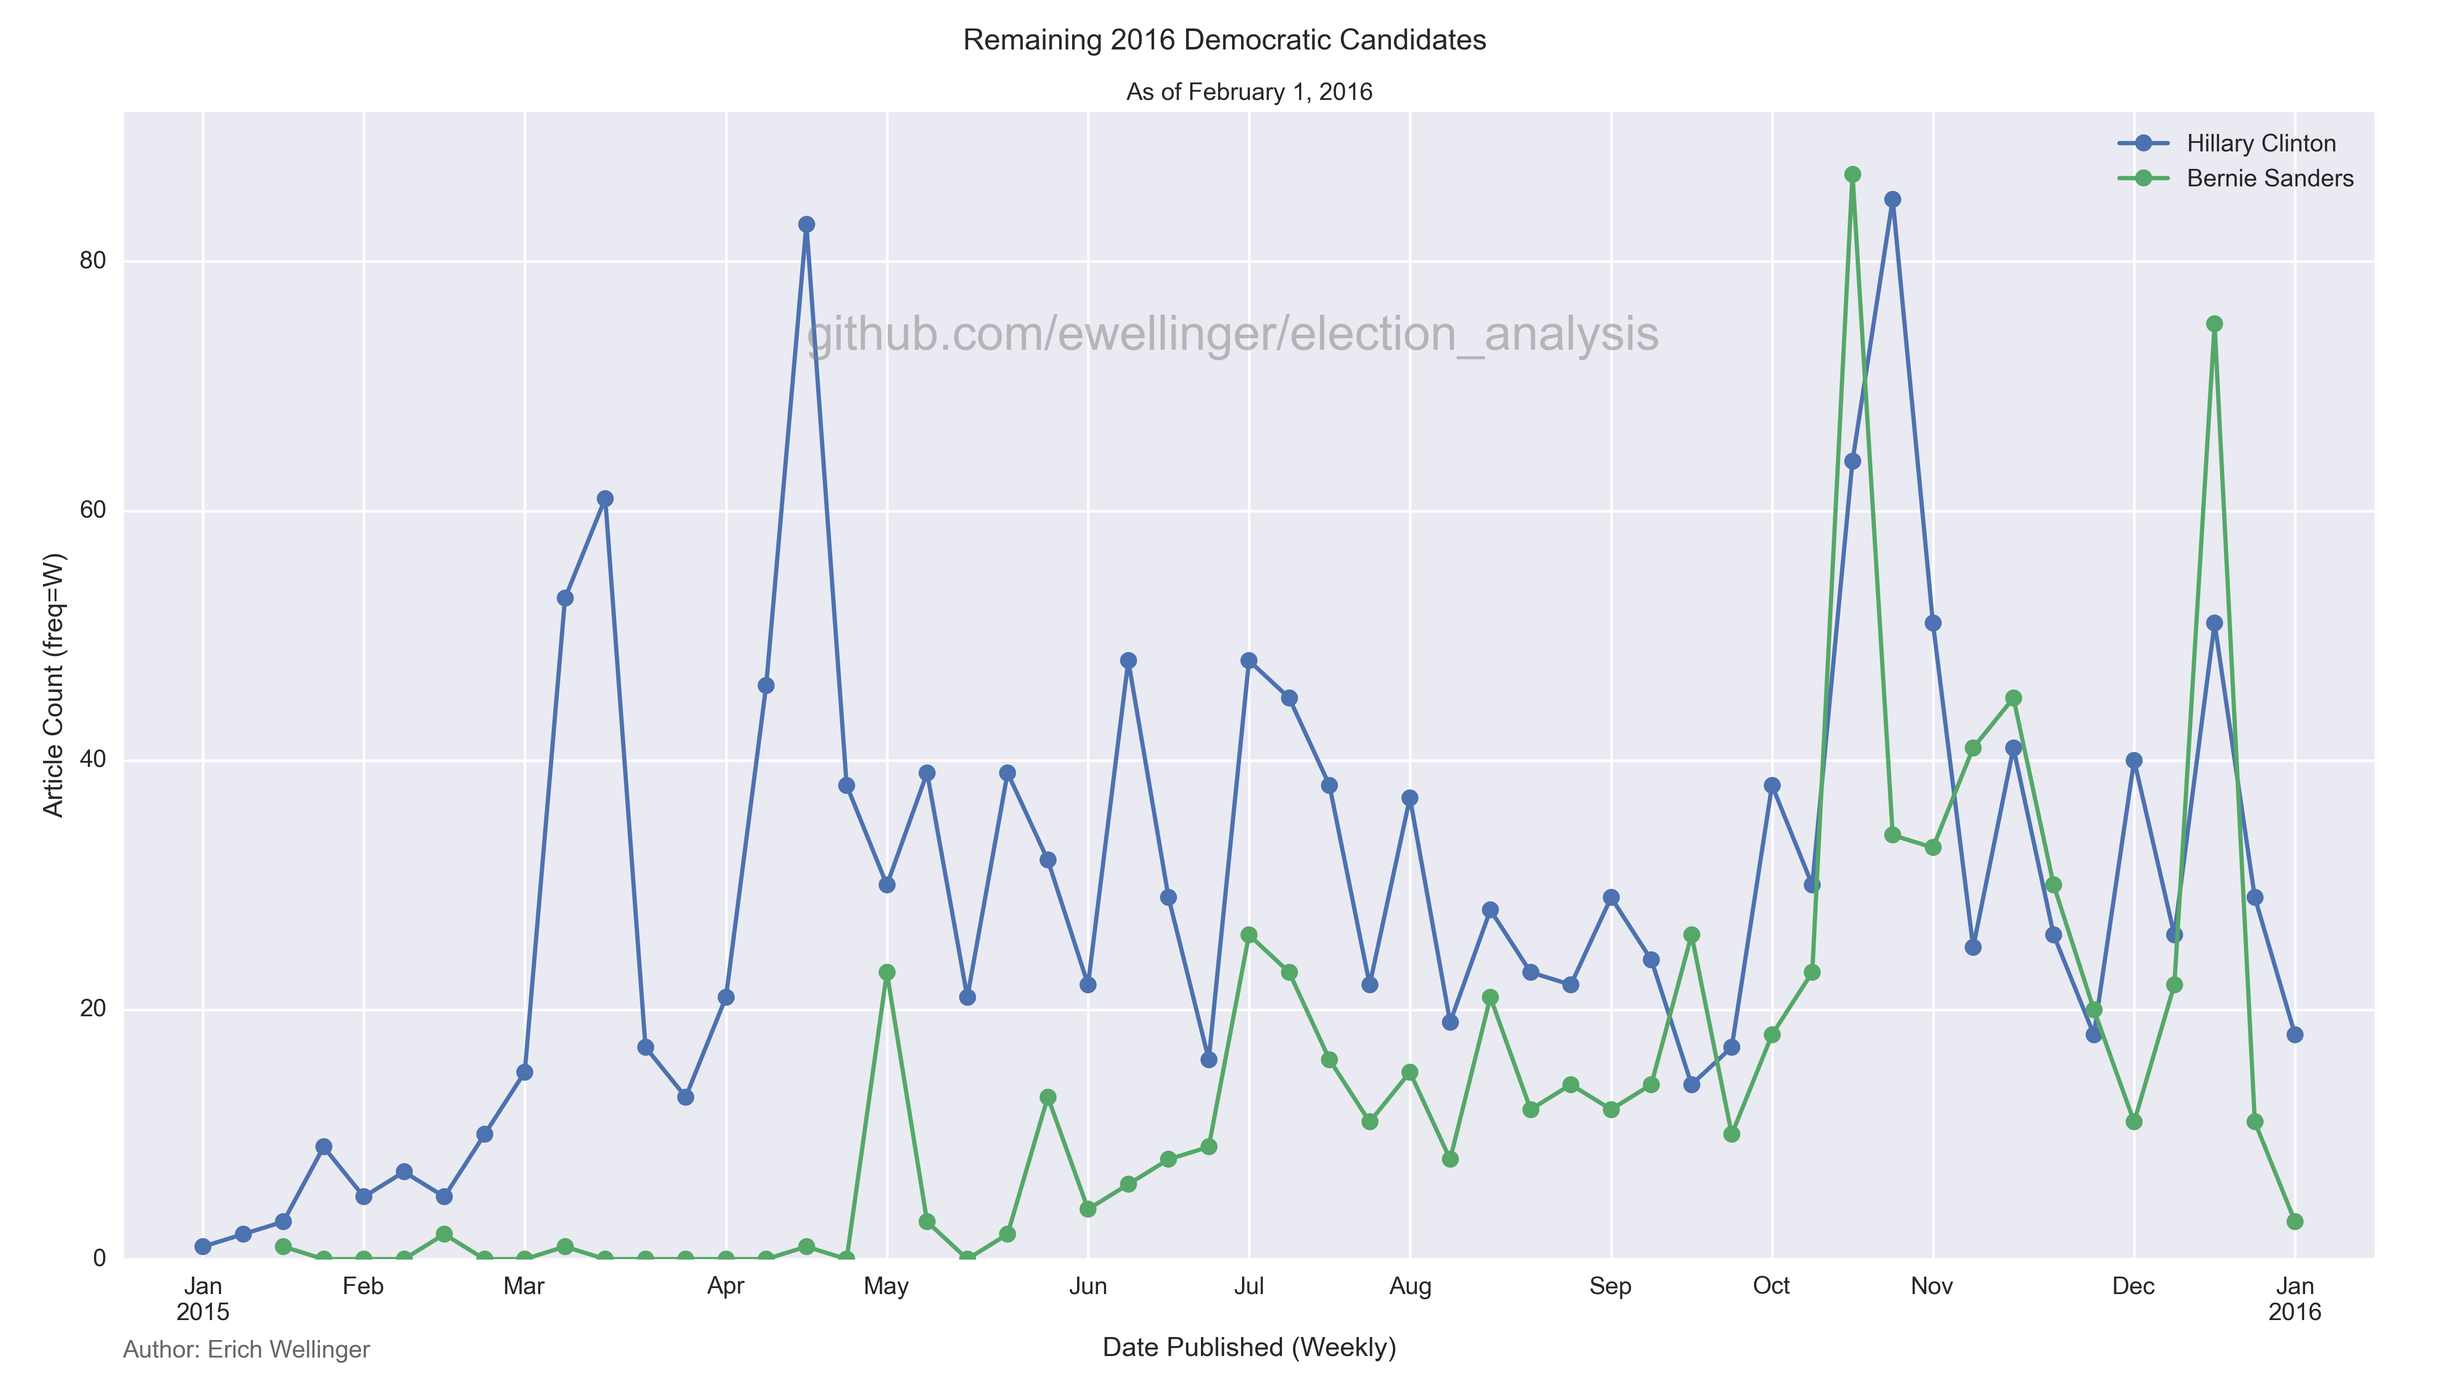
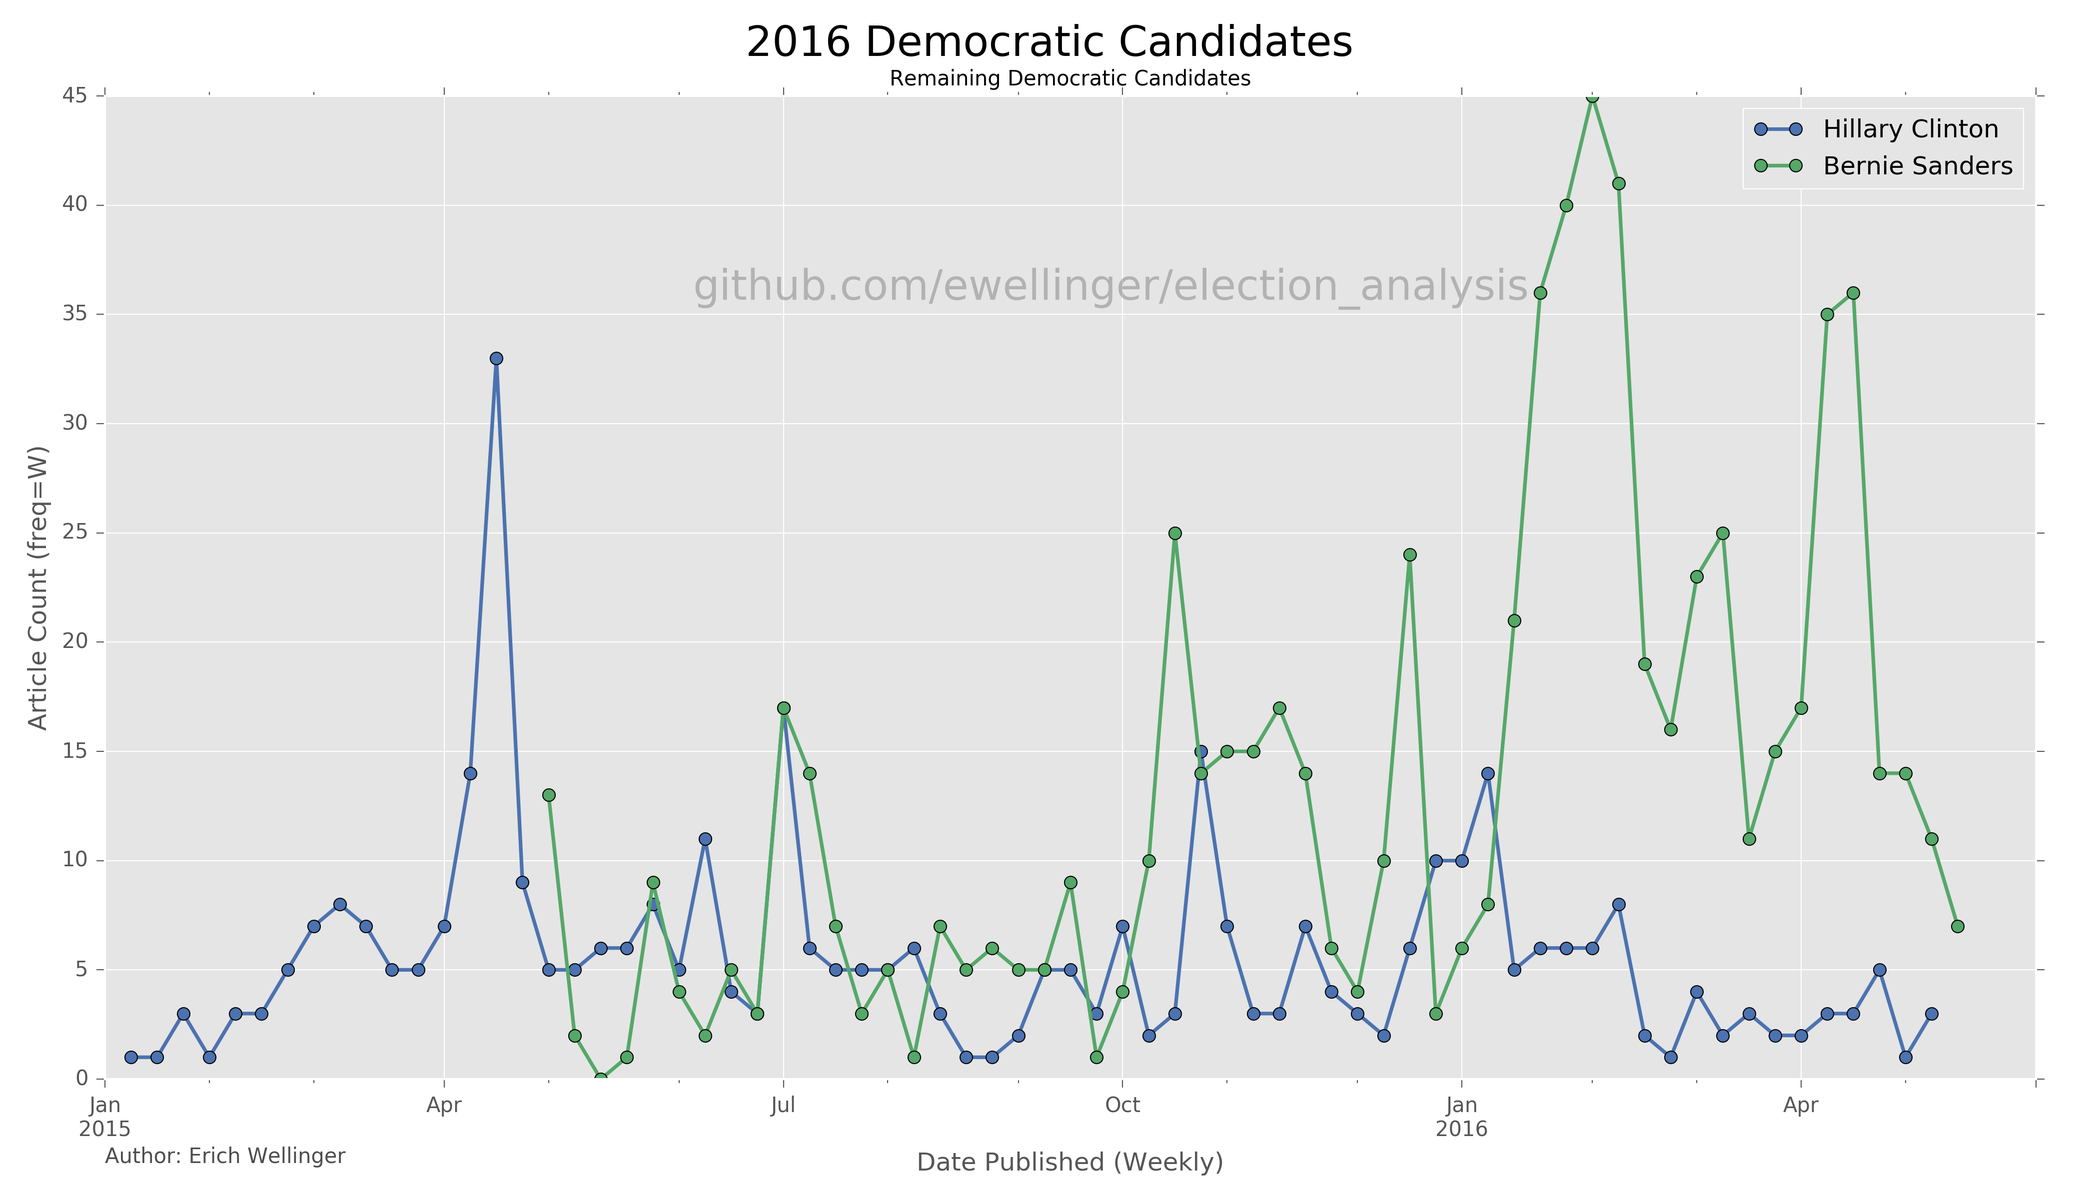
Working on significant overhaul of README and incorporating new plots

diff --git a/Election_Plots.py b/Election_Plots.py
@@ -2,13 +2,20 @@ import pandas as pd
 import numpy as np
 from datetime import date
 import matplotlib.pyplot as plt
+import matplotlib
+from cycler import cycler
 from PIL import Image
 from wordcloud import WordCloud, ImageColorGenerator
 from scipy.misc import imread
 import cPickle as pickle
 from NMF_Clustering import NMFClustering
 from scrapers.load_data import get_topic_labels, get_candidate_info
+
+# Set style options
 plt.style.use('ggplot')
+color_cycle = cycler(color=['#4c72b0', '#55a868', '#c44e52', '#8172b2', '#ccb974', '#64b5cd'])
+matplotlib.rcParams['axes.prop_cycle'] = color_cycle
+matplotlib.rcParams['lines.linewidth'] = 1.75
 
 
 class ElectionPlotting(object):
@@ -47,11 +54,13 @@ class ElectionPlotting(object):
             source: bool (default False)
             freq: 'D', 'W', or 'M' (default 'W')
             normalize: bool (default False)
-            marker
-            year
-            fig
-            title
-            legend_label
+            marker: str (default 'o')
+            year: bool (default False)
+                Indicates whether to set xlims to encompass the entirety of the year
+            fig: Matplotlib figure object or tuple (default None)
+                If figure object, plot will be added to the existing figure.  If tuple, figure will be created using specified size.  If None, figure will be created using self.figsize.
+            title: str (default None)
+            legend_label: bool (default None)
         '''
         if isinstance(fig, tuple):
             fig = self._create_fig(fig)
@@ -116,6 +125,8 @@ class ElectionPlotting(object):
 
 
     def _create_fig(self, figsize=None, watermark=True):
+        ''' Helper function to create a figure and optionally add watermark
+        '''
         if figsize == None:
             figsize = self.figsize
 
@@ -127,13 +138,13 @@ class ElectionPlotting(object):
         return fig
 
 
-    def candidate_plots(self, candidate_topic_idxs, title, byline=None, freq='W', fig=None):
+    def candidate_plots(self, candidate_names, title, byline=None, freq='W', fig=None):
         ''' candidate_plots plots multiple topics on one plot
-        candidate_topic_idxs: list of int
-            Should be a list of int specifying which topic_num to plot
+        candidate_topic_idxs: list of str
+            Should be a list of strings identifying which candidates to plot
         title: str
             Title for the plot
-        byline: str
+        byline: str (default None)
             Byline to go beneath the title
         '''
         if isinstance(fig, tuple):
@@ -141,7 +152,11 @@ class ElectionPlotting(object):
         elif not fig:
             fig = self._create_fig()
 
-        for candidate in candidate_topic_idxs:
+        candidate_topic_idxs = [self.candidate_info[name][0] for name in candidate_names]
+
+        c_list = zip(*self.nmf.outlets)[2]
+
+        for idx, candidate in enumerate(candidate_topic_idxs):
             self.article_count_by_time(topic_num=candidate, freq=freq, legend_label=True, fig=fig, year=None)
 
         # Make sure the xlims have a buffer on either side of earliest and latest values
@@ -153,21 +168,23 @@ class ElectionPlotting(object):
 
         plt.legend(loc='best')
         plt.subplots_adjust(left=0.05, bottom=0.1, right=0.97)
-        plt.suptitle(title)
+        plt.suptitle(title, fontsize=20)
         if byline:
             plt.title(byline, fontsize=10)
+        else:
+            plt.title('')
 
 
     def topic_word_cloud(self, topic_num, max_words=200, figsize=None, width=2400, height=1300, ax=None, mask_fname=None, inherit_color=False):
         ''' Create word cloud for a given topic
         INPUT:
             topic_idx: int
-            max_words: int
+            max_words: int (default 200)
                 Max number of words to encorporate into the word cloud
             figsize: tuple (int, int)
                 Size of the figure if an axis isn't passed
-            width: int
-            height: int
+            width: int (default 2400)
+            height: int (default 1300)
             ax: None or matplotlib axis object
             mask_fname: None or str
                 None if no mask is desired, otherwise a string providing the path the image being used as the mask
@@ -205,6 +222,8 @@ class ElectionPlotting(object):
         ''' Make a bar chart relecting the normalized reporting by source
         INPUT:
             topic_num: int
+            ax: Matplotlib axis object (default None)
+                If no axis object is provided, one will be created with size (2.5, 5)
         '''
         num_articles = self.nmf.labels[:, topic_num].sum()
         df = self.df.loc[self.nmf.labels[:, topic_num]]
@@ -291,19 +310,29 @@ if __name__=='__main__':
 
     ep = ElectionPlotting(df, nmf)
 
-    # Plot a general plot of all the articles over time
+    ''' Plot a general plot of all the articles over time '''
     # ep.article_count_by_time()
     # plt.show()
 
-    # Plot all the articles split up by source over time
+    ''' Plot all the articles split up by source over time '''
     # ep.article_count_by_time(source=True)
     # plt.show()
 
-    # Create an overall visualization of an entire topic
+    ''' Create an overall visualization of an entire topic '''
     # ep.topic_time_and_cloud(9)
     # plt.show()
 
-    # Make plot for each candidate and save the image
+    ''' Make plot for each candidate and save the image '''
     # for candidate in ep.candidate_info.keys():
     #     ep.single_candidate_plot(candidate)
     #     plt.savefig('candidate_plots/{}.png'.format(candidate), dpi=300)
+    #     plt.close()
+
+    ''' Create candidate plots '''
+    # ep.candidate_plots(['trump', 'cruz', 'kasich'], '2016 Republican Candidates', byline='Last Three Candidates in Republican Race')
+    # plt.savefig('candidate_plots/republican.png', dpi=300)
+    # plt.close()
+    #
+    # ep.candidate_plots(['clinton', 'sanders'], '2016 Democratic Candidates', byline='Remaining Democratic Candidates')
+    # plt.savefig('candidate_plots/democrat.png', dpi=300)
+    # plt.close()

diff --git a/README.md b/README.md
@@ -16,7 +16,7 @@ Below is an example of one of the latent topics extracted with the [NMF][wiki-nm
 
 [wiki-nmf]: https://en.wikipedia.org/wiki/Non-negative_matrix_factorization
 
-![gun_control](./plots/Gun_Control.png "Sample Time Series Graph With WordCloud")
+![gun_control](./plots/topic_plots/gun_control.png "Sample Time Series Graph With WordCloud")
 
 ---
 
@@ -40,8 +40,11 @@ keywords = ['jeb bush', 'carson', 'christie', 'cruz', 'fiorina', 'jim gilmore',
             'sanders', 'jim webb', 'chafee', 'lessig', 'biden']
 ```
 
-All articles that were returned were assumed to be at least cursorily related to the general election (further checks are done to ensure this during the [data cleaning](#data-cleaning) phase) 
-Articles pertaining to the general election were then added to a Mongo Database with metadata and article text for further analysis.  In the case of the Fox News and Wall Street Journal scrapers, relevant url addresses were first saved to a text file prior to extracting metadata and article text.
+All articles that were returned were assumed to be at least cursorily related to the general election (further checks are done to ensure this during the [data cleaning](#data-cleaning) phase) and were then added to a Mongo Database with metadata and article text for further analysis.  In the case of the Fox News and Wall Street Journal scrapers, relevant url addresses were first saved to a text file prior to extracting metadata and article text.
+
+All scripts associated with collecting the data are located in the [scrapers](./scrapers) folder.
+
+Now let's take a look at the plethora of candidates we had to choose from when the race was first getting started!
 
 ---
 
@@ -83,22 +86,29 @@ Joe Biden       |        N/A        |   10/21/2015
 
 Below we can see how the media coverage of topics associated with particular candidates compare over the course of the election season.  For brevity, only a select few candidates will be shown for each plot.
 
-![republican_candidates](./candidate_plots/republican.png "Coverage of Top 5 Polling Republican Candidates As Of February 1st, 2016")
+![democratic_candidates](./candidate_plots/democrat.png "Coverage of the Remaining Two Candidates")
 
+**NOTE**: It may appear that Hillary Clinton has a relatively few number of articles associated with her topic, but that actually isn't the case.  Due to the media storm around certain aspects of Clinton's candidacy, the NMF algorithm factored the general "Hillary Clinton" topic into multiple topics associated with different aspects of her bid for the Presidency.  For example, topics exist related to her use of a private email server (Topics 3, 4, 198), the Clinton Foundation (Topic 51), and the investigation surrounding the Benghazi attack (Topics 30, 98, 222).  We will see later what it means for a more general subject, such as the Benghazi attack, to be factored into multiple topics.
 
-![democratic_candidates](./candidate_plots/democrat.png "Coverage of Remaining Democratic Candidates As Of February 1st, 2016")
+![republican_candidates](./candidate_plots/republican.png "Coverage of the Final Three Republican Candidates")
 
-We can then take a look at each candidate's topic in turn and overlay the dates in which they announced and, if applicable, withdrew their candidacy.  A word cloud indicating the most prominent words for that topic and a breakdown of how prevalently particular news sources were reporting on it are also provided.  For a breakdown of each candidate please refer to the [candidate_plots](./candidate_plots) folder.
+We can then take a look at each candidate's topic in turn and overlay the dates in which they announced and, if applicable, withdrew their candidacy.  A word cloud indicating the most prominent words for that topic and a breakdown of how prevalently particular news sources were reporting on it are also provided (this bar chart is normalized by how many articles that that outlet has in the corpus to account for the sheer volume of articles published).  For a breakdown of each candidate, please refer to the [candidate_plots](./candidate_plots) folder.
 
-**** Imbed some candidate plots here
+![](./candidate_plots/trump.png "Donald Trump Topic")
 
-**NOTE**: It may appear that Hillary Clinton has a relatively few number of articles associated with her topic, but that actually isn't the case.  Due to the media storm around certain aspects of Clinton's candidacy, the NMF algorithm factored the general "Hillary Clinton" topic into multiple topics associated with different aspects of her bid for the Presidency.  For example, topics exist related to her use of a private email server (Topics 3, 4, 198), the Clinton Foundation (Topic 51), and the committee to investigate the Benghazi attack (Topics 30, 98, 222).  We will see later what it means for a more general subject, such as the Benghazi attack, to be factored into multiple topics.
+![](./candidate_plots/carson.png "Ben Carson Topic")
+
+![](./candidate_plots/sanders.png "Bernie Sanders Topic")
+
+![](./candidate_plots/fiorina.png "Carly Fiorina Topic")
+
+![](./candidate_plots/kasich.png "John Kasich Topic")
 
 ---
 
 ### Data Cleaning
 
-Several data cleaning steps were taken in the `clean_data.py` script to read in the data from the Mongo Database and produce the final `pandas` dataframe which the analysis was conducted on.  The resulting dataframe was pickled for easy access in subsequent scripts.
+Several data cleaning steps were taken in the [`clean_data.py`](./clean_data.py) script to read in the data from the Mongo Database and produce the final `pandas` dataframe which the analysis was conducted on.  The resulting dataframe was pickled for easy access in subsequent scripts.
 
 Cleaning Steps Included:
 * Convert `date_published` to the proper datetime format
@@ -106,19 +116,35 @@ Cleaning Steps Included:
 * Parse unicode characters from article text
 * Filter out any articles whose article text doesn't contain at least one candidate name
 * Text Processing / Lemmatization (See Below)
-* Add sentiment data to dataframe using `pattern.en` [sentiment][pattern-sentiment] function
 
-A article was then assumed to being pertained to the general election if the body of the article contained one or more of the candidate(s) full names (e.g. A search for `sanders` may yield an article about Deion Sanders rather than Bernie Sanders, which should not be included).
+One vitally important step was to double check that an article contained in our Mongo Database did, in fact, pertain in some way to the general election.  This was done by ensuring the body of an article contained one or more of the candidate(s) full names (e.g. A search for `sanders` may yield an article about Deion Sanders rather than Bernie Sanders, which should not be included).
 
-[pattern-sentiment]: http://www.clips.ua.ac.be/pages/pattern-en#sentiment
+It's also important to note that these articles might not necessarily be solely about the upcoming election.  For example, an article may be written about the water crisis in Flint Michigan and a candidate weighs in with their opinion.  While this isn't directly related to the election, it does factor into the political discourse and should therefore be included.  Indeed, topic number 83 is concerning the [Flint Water Crisis](./plots/topic_plots/flint_water_crisis.png).
 
 ---
 
 ### Text Processing
 
+While cleaning your data is an important step in any data science project, there are specific steps that are required when working with text data in order to perform analysis on your results.  Among these text oriented steps include removing stop words, stemming/lemmatizing your text, looking at n-grams, part-of-speech tagging, and creating some sort of numeric representation of the words (e.g. Term Frequency or a TfIdf matrix).  Not all of these steps are necessarily required (in fact several of these options are not implemented in my project) but a quick run down of each is in order.
+
 #### Stop Words
+The first step is to remove [stop words](https://en.wikipedia.org/wiki/Stop_words) from our corpus.  Stop words are words that frequently occur in text which make the language grammatically correct but don't actually lend any meaning to what a particular sentence is conveying.  Because of how common they are in the language and how little meaning they convey, we generally want to drop them entirely from our text corpus.  The following are a handful of examples of stop words that could be removed...
+
+```python
+['i', 'me', 'my', 'myself', 'we', 'our', 'ours', 'ourselves', 'you', 'your', 'yours', 'yourself', 'yourselves', 'he', 'him', ...]
+```
+
+This is far from a complete list nor is there a canonical list of what words should be dropped.  Furthermore, there are different sets of stop words for a given language.  For example, the list of english stop words given by the `NLTK` package in python contains 127 words to drop.
+
+Apart from these common words, we should extend our list of stop words based off domain-knowledge associated with whatever text we are analyzing.  For example, I extended these common stop words with words or phrases that are commonly associated with politics/political campaigns by dropping words like `'new york times'`, `'gov'`, `'sen'`, `'rep'`, `'campaign'`, `'candidate'`, & c.  
+
 
 #### Lemmatization
+The next step is to implement some form of [text stemming](https://en.wikipedia.org/wiki/Stemming) or [lemmatization](https://en.wikipedia.org/wiki/Lemmatisation).  At a high level this serves to remove any inflectional endings and morph a word to its base or dictionary form of a word (known as the word's lemma).  Because we are concerned with how frequently a given word occurs, variations on a particular word should be counted as the same entity.  i.e. the words `ran`, `run`, `runs`, and `running` should all be altered to `run`.
+
+There are a variety of packages to accomplish this task including many packaged into the `NLTK` package (e.g. [Porter Stemmer](http://www.nltk.org/_modules/nltk/stem/porter.html), [Snowball Stemmer](http://www.nltk.org/_modules/nltk/stem/snowball.html), [WordNet Lemmatizer](http://www.nltk.org/_modules/nltk/stem/wordnet.html)).  For the purposes of this project, I employed the [lemmatizer](http://www.clips.ua.ac.be/pages/pattern-en#conjugation) packaged into the `pattern` package, which I found to work significantly better than those offered by `NLTK`.  
+
+
 
 #### TFIDF Matrix
 Quickly go over word count matrices and how they differ from a TFIDF matrix
